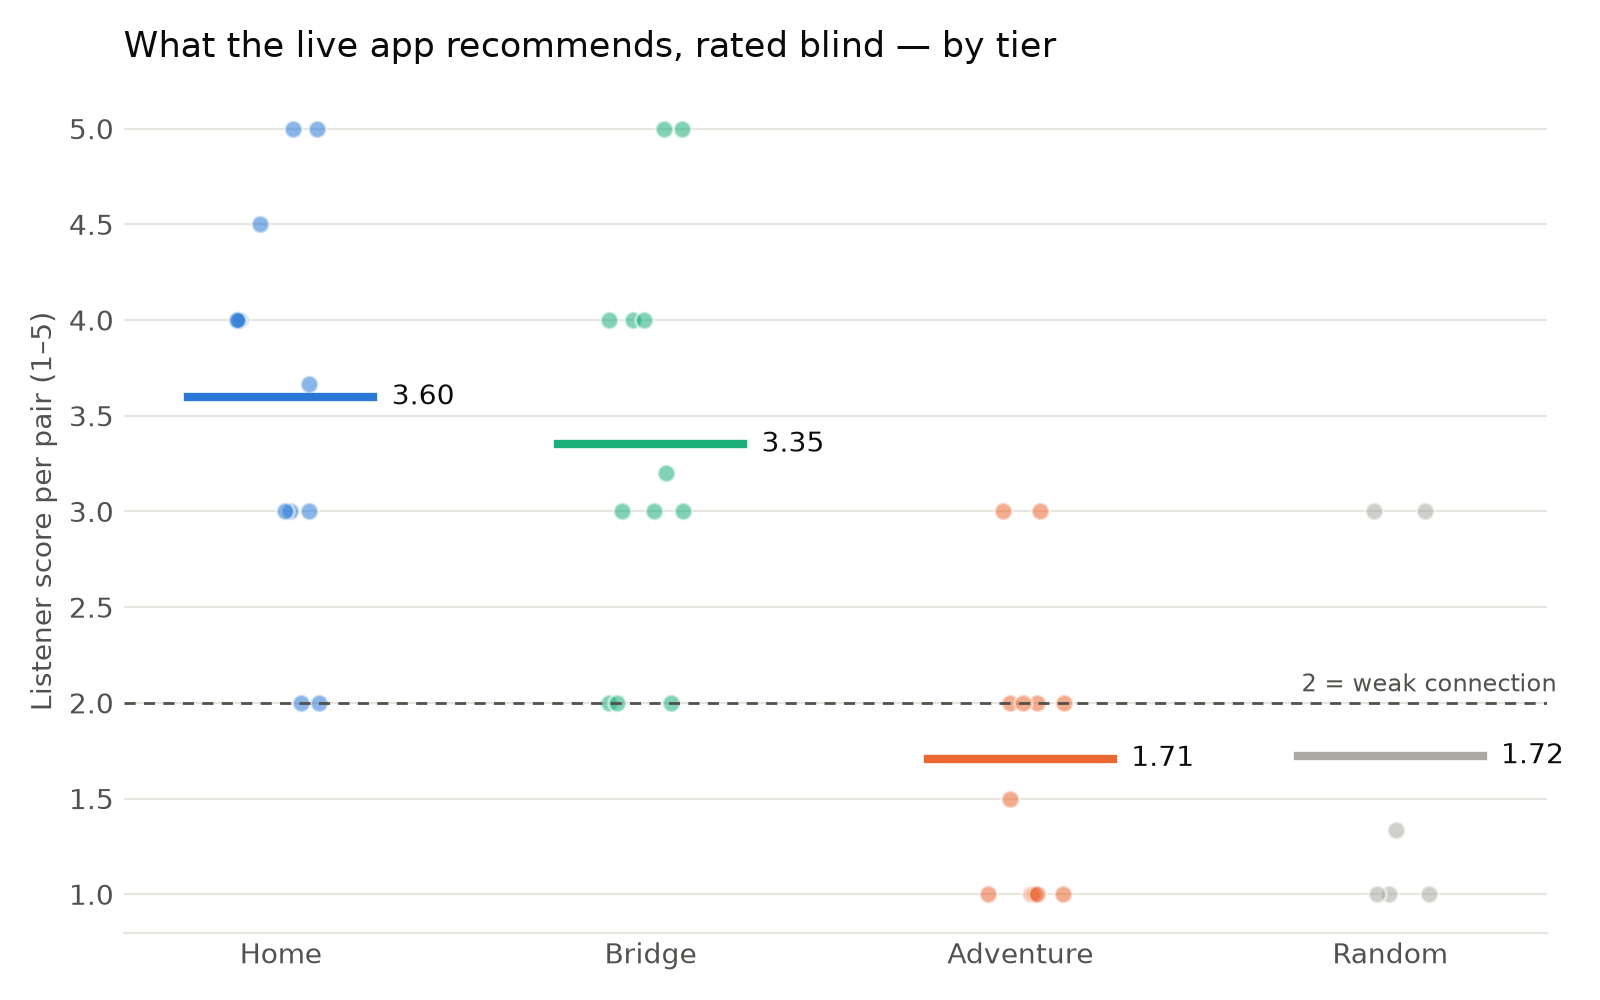
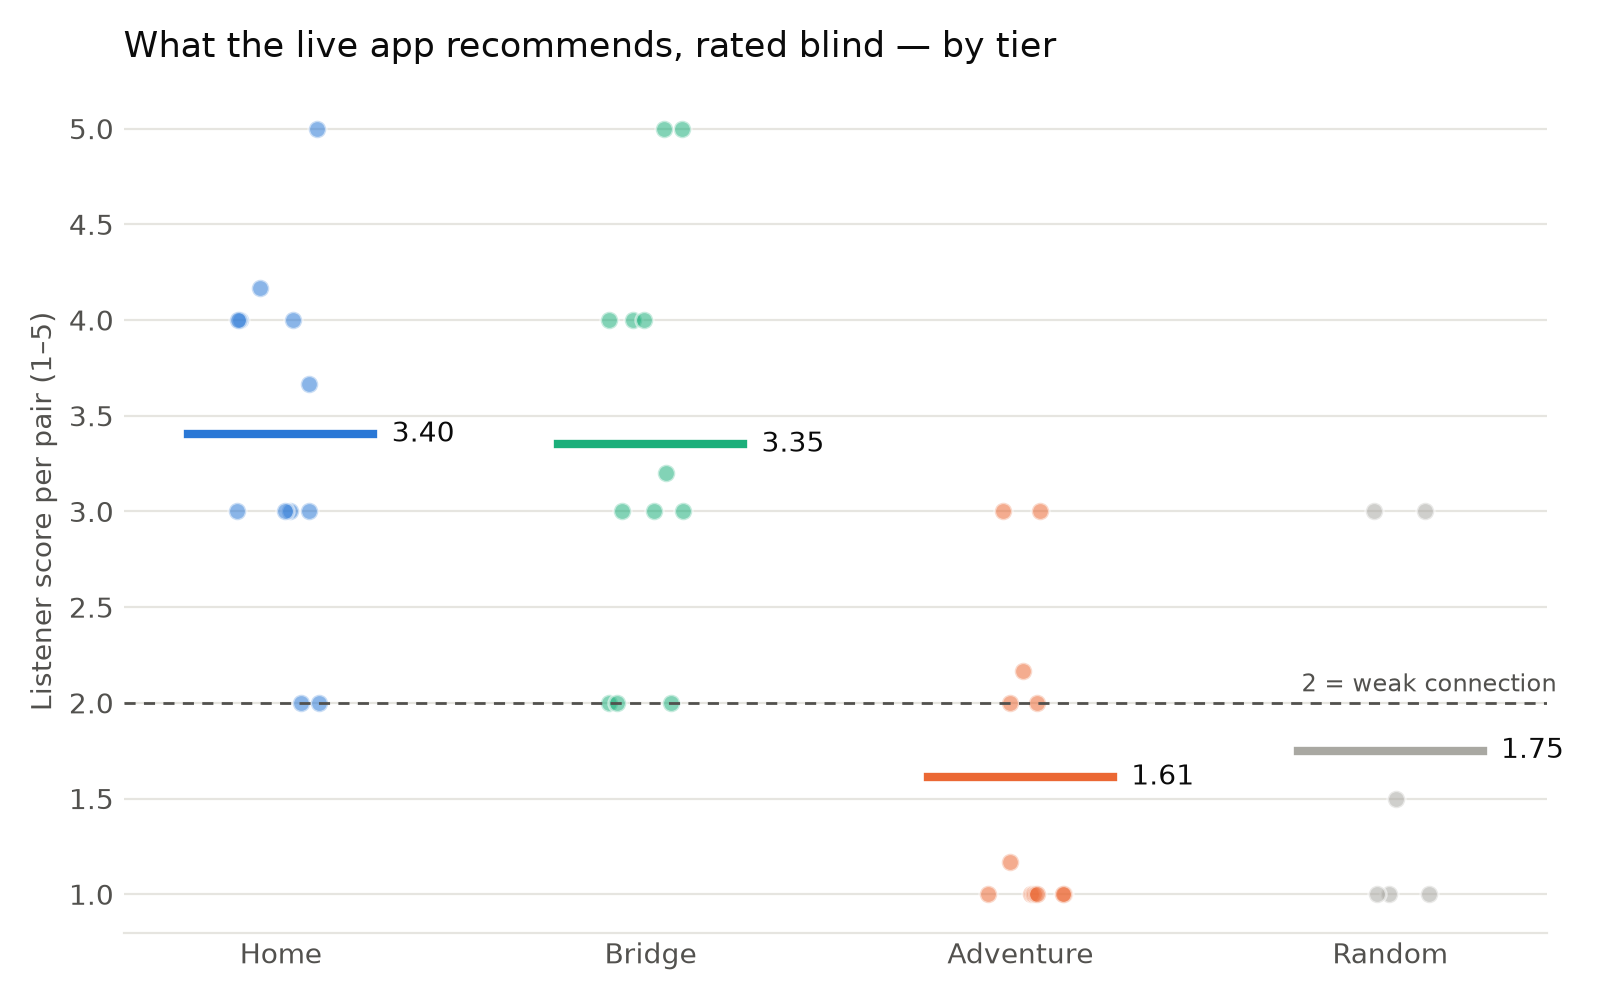
Use R5d's second ratings file, and say so beside the results
The first file stays in 0f26dbe. No answer changes: Home and Bridge
still beat random, Adventure still does not, the dial still orders.

Claude-Session: https://claude.ai/code/session_01CfmVXjE6TQhHEK1ZiNwoTe

diff --git a/reports/round4/RESULTS.md b/reports/round4/RESULTS.md
@@ -6,13 +6,13 @@
 
 | tier | pairs | mean | random mean | p (Holm) | beats random | p vs 1.57 (secondary) |
 |---|---:|---:|---:|---:|---|---:|
-| Home | 12 | 3.60 | 1.72 | 0.0100 | yes | 0.0002 |
-| Bridge | 12 | 3.35 | 1.72 | 0.0116 | yes | 0.0002 |
-| Adventure | 12 | 1.71 | 1.72 | 0.4605 | not shown | 0.5591 |
+| Home | 12 | 3.40 | 1.75 | 0.0126 | yes | 0.0002 |
+| Bridge | 12 | 3.35 | 1.75 | 0.0126 | yes | 0.0002 |
+| Adventure | 12 | 1.61 | 1.75 | 0.5994 | not shown | 0.5386 |
 
 ## Q2 — Home ≥ Bridge ≥ Adventure?
 
-Spearman ρ = -0.627, one-sided p = 0.0000 → the dial is heard as a dial.
+Spearman ρ = -0.598, one-sided p = 0.0001 → the dial is heard as a dial.
 
 ## Q3 — is Adventure still related?
 
@@ -22,11 +22,19 @@ Spearman ρ = -0.627, one-sided p = 0.0000 → the dial is heard as a dial.
 
 | seed | Home | Bridge | Adventure | Random |
 |---|---:|---:|---:|---:|
-| Ash On Dust | 3.00 | 4.50 | 1.50 | 3.00 |
-| Humble Tripe | 3.75 | 2.60 | 1.75 | 1.00 |
+| Ash On Dust | 3.00 | 4.50 | 1.58 | 3.00 |
+| Humble Tripe | 3.58 | 2.60 | 1.58 | 1.00 |
 | Milton Arias | 2.50 | 2.50 | 2.00 | 1.00 |
-| Out Of Orion (Ox3) | 3.83 | 3.50 | 2.50 | 1.33 |
-| The Defibulators | 3.50 | 2.50 | 1.50 | 1.00 |
-| The Four Harmony Kings | 5.00 | 4.50 | 1.00 | 3.00 |
+| Out Of Orion (Ox3) | 3.83 | 3.50 | 2.50 | 1.50 |
+| The Defibulators | 3.00 | 2.50 | 1.00 | 1.00 |
+| The Four Harmony Kings | 4.50 | 4.50 | 1.00 | 3.00 |
 
 ![tiers](fig_tiers.png)
+
+## Note on R5d
+
+R5d's ratings were replaced with a second file from the same rater, at the
+author's request, after the first analysis had been run. The first file is
+kept in git history (commit 0f26dbe). Every answer above is the same under
+either file: with the first one, Home 3.60, Bridge 3.35, Adventure 1.71,
+random 1.72, rho = -0.63.
